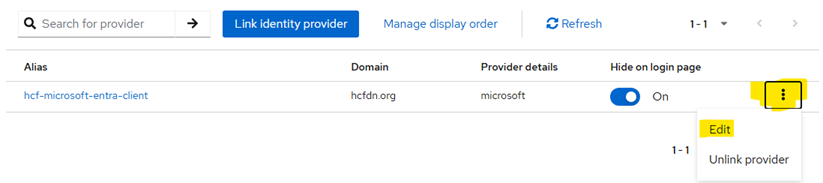
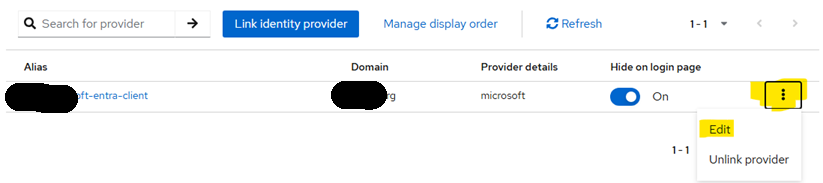
Modifications per Jesse
Also ran lint...  Lots of 'modified' files that have no changes...  Not sure what that's about.

Changed region(s): [[0.0, 0.4372, 0.1215, 0.6284], [0.3949, 0.4372, 0.486, 0.6011]]

diff --git a/docs/onboarding/external-idp/IDP_MS_ENTRA.md b/docs/onboarding/external-idp/IDP_MS_ENTRA.md
@@ -63,8 +63,8 @@ assign users to that group, and then assign the group to the App.
    example `My Foundation Microsoft Entra Client`
 7. Set the "Client ID" to the value provided by the Entra admin (a UUID)
 8. Set the "Client Secret" to the value provided by the Entra admin\
-_NOTE: The Secret is not a GUID but instead is a 'passphrase' value_
-9. Set "Prompt" to `login`adw
+   _NOTE: The Secret is not a GUID but instead is a 'passphrase' value_
+9. Set "Prompt" to `login`
 10. Set Tenant ID to the value provided by the Entra admin (a UUID)
 11. Click "Add"
 
@@ -91,10 +91,11 @@ Link the Organization to the newly created Identity provider:
 9. Click "Save".
 
 Verify the Link to the Organization from the Identity provider:
+
 1. Go into the Organization
-2. Select the "Identity Providers" tab.  There should be the entry you just added
+2. Select the "Identity Providers" tab. There should be the entry you just added
 3. On the right side, click the verticle ellipses and select Edit\
-![The Menu to click on to Edit the IDP Link](./images/Entra_3.png)
+   ![The Menu to click on to Edit the IDP Link](./images/Entra_3.png)
 4. Enable the 'Redirect when email domain matches' option
 
 ## In Microsoft Entra again

diff --git a/docs/onboarding/USER_ONBOARDING_CHECKLIST.md b/docs/onboarding/USER_ONBOARDING_CHECKLIST.md
@@ -10,19 +10,19 @@ These steps require membership in the `pdc-admin` group.
 Visit https://auth.philanthropydatacommons.org/admin/pdc/console/#/pdc/users
 
 - [ ] Click "Add user"\
-![The Add User button](./images/user_onboarding_1.png)
+       ![The Add User button](./images/user_onboarding_1.png)
   - [ ] Enter the user's email address
   - [ ] Enter the user's first and last names
   - [ ] Click "Create"
 - [ ] Click the "Credentials" tab on the newly created user
   - [ ] Click "Credential Reset"\
-![The Credential Reset Button](./images/user_onboarding_2.png)
+         ![The Credential Reset Button](./images/user_onboarding_2.png)
   - [ ] Add the following "Reset action"s:
     - [ ] Configure OTP
     - [ ] Update Password
     - [ ] Update mobile number
   - [ ] Adjust the Expiration to give the user enough time to login (usually 7-14 days)\
-![The Credential Reset Form](./images/user_onboarding_3.png)
+         ![The Credential Reset Form](./images/user_onboarding_3.png)
   - [ ] Click "Send Email"
 - [ ] Ask the user to click the link from the email
 - [ ] Provide the user with the following link to Exchange: https://exchange.philanthropydatacommons.org